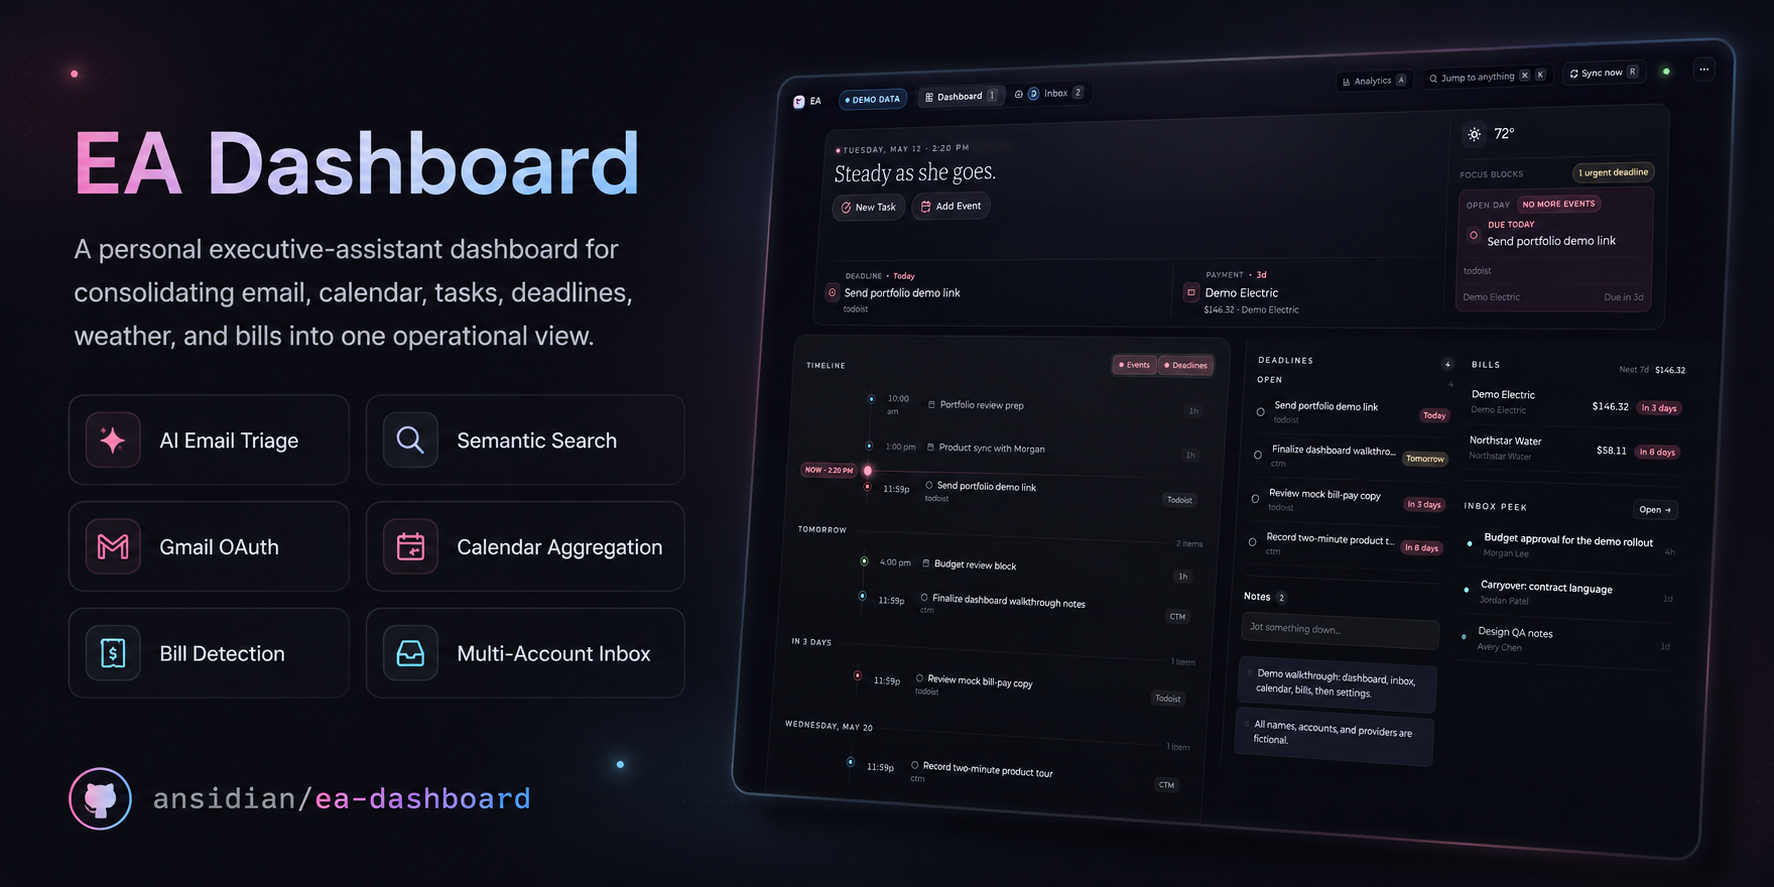
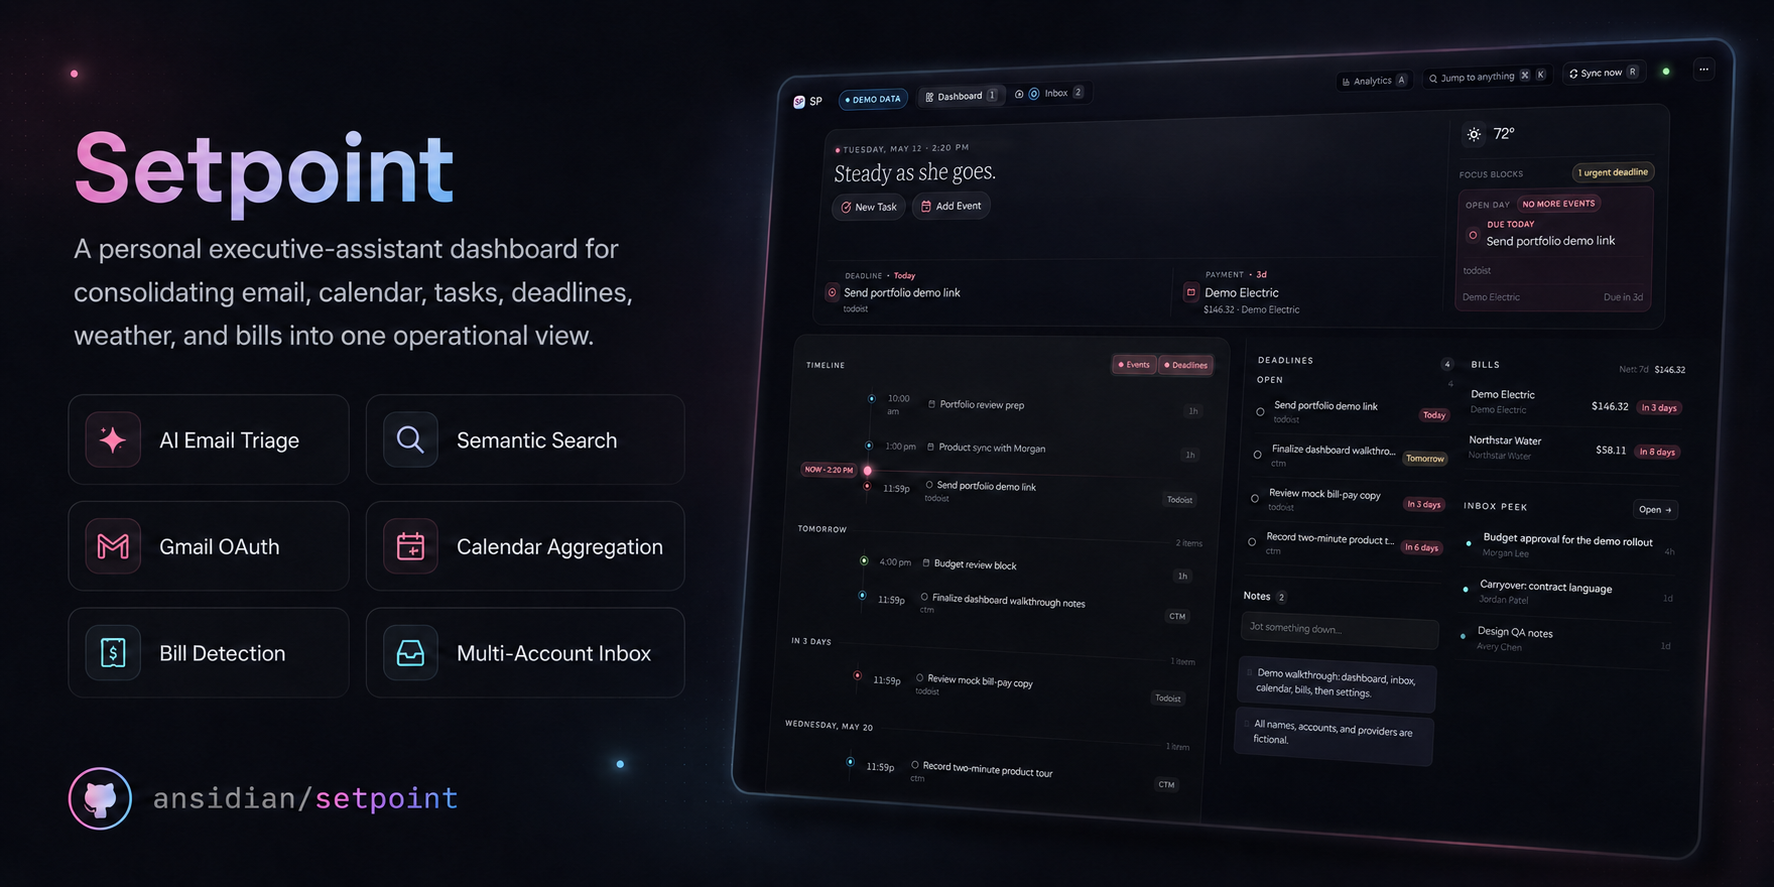
feat: rebrand project to Setpoint

diff --git a/server/auth/webauthn-config.test.js b/server/auth/webauthn-config.test.js
@@ -5,7 +5,7 @@ describe("WebAuthn config", () => {
   it("uses localhost defaults outside production", () => {
     expect(resolveWebAuthnConfig({ NODE_ENV: "development" })).toEqual({
       mode: "development",
-      rpName: "EA Dashboard",
+      rpName: "Setpoint",
       rpId: "localhost",
       origin: "http://localhost:5173",
     });
@@ -17,7 +17,7 @@ describe("WebAuthn config", () => {
       { requestOrigin: "http://127.0.0.1:5173" },
     )).toEqual({
       mode: "development",
-      rpName: "EA Dashboard",
+      rpName: "Setpoint",
       rpId: "127.0.0.1",
       origin: "http://127.0.0.1:5173",
     });
@@ -27,7 +27,7 @@ describe("WebAuthn config", () => {
       { requestOrigin: "http://localhost:3000" },
     )).toEqual({
       mode: "development",
-      rpName: "EA Dashboard",
+      rpName: "Setpoint",
       rpId: "localhost",
       origin: "http://localhost:3000",
     });
@@ -41,14 +41,14 @@ describe("WebAuthn config", () => {
   it("rejects unsafe production origin and RP ID values", () => {
     expect(() => resolveWebAuthnConfig({
       NODE_ENV: "production",
-      EA_WEBAUTHN_RP_NAME: "EA Dashboard",
+      EA_WEBAUTHN_RP_NAME: "Setpoint",
       EA_WEBAUTHN_RP_ID: "https://dashboard.example.com",
       EA_WEBAUTHN_ORIGIN: "https://dashboard.example.com",
     })).toThrow(/RP ID must be a hostname/);
 
     expect(() => resolveWebAuthnConfig({
       NODE_ENV: "production",
-      EA_WEBAUTHN_RP_NAME: "EA Dashboard",
+      EA_WEBAUTHN_RP_NAME: "Setpoint",
       EA_WEBAUTHN_RP_ID: "dashboard.example.com",
       EA_WEBAUTHN_ORIGIN: "http://dashboard.example.com",
     })).toThrow(/must use HTTPS/);
@@ -57,12 +57,12 @@ describe("WebAuthn config", () => {
   it("accepts explicit production WebAuthn config", () => {
     expect(resolveWebAuthnConfig({
       NODE_ENV: "production",
-      EA_WEBAUTHN_RP_NAME: "EA Dashboard",
+      EA_WEBAUTHN_RP_NAME: "Setpoint",
       EA_WEBAUTHN_RP_ID: "dashboard.example.com",
       EA_WEBAUTHN_ORIGIN: "https://dashboard.example.com",
     })).toEqual({
       mode: "production",
-      rpName: "EA Dashboard",
+      rpName: "Setpoint",
       rpId: "dashboard.example.com",
       origin: "https://dashboard.example.com",
     });

diff --git a/src/demo/demoMode.test.js b/src/demo/demoMode.test.js
@@ -51,7 +51,7 @@ describe("demo mode API network guard", () => {
 
     expect(fetch).toHaveBeenCalledWith("/api/auth/check", expect.objectContaining({
       headers: expect.objectContaining({
-        "X-Requested-With": "EADashboard",
+        "X-Requested-With": "Setpoint",
       }),
     }));
   });
@@ -72,7 +72,7 @@ describe("demo mode API network guard", () => {
 
     expect(fetch).toHaveBeenNthCalledWith(1, "/api/auth/passkey/authentication/options", expect.objectContaining({
       method: "POST",
-      headers: expect.objectContaining({ "X-Requested-With": "EADashboard" }),
+      headers: expect.objectContaining({ "X-Requested-With": "Setpoint" }),
     }));
     expect(fetch).toHaveBeenNthCalledWith(2, "/api/auth/passkey/authentication/verify", expect.objectContaining({
       method: "POST",
@@ -99,7 +99,7 @@ describe("demo mode API network guard", () => {
     await api.deletePasskeyCredential("credential-1");
 
     expect(fetch).toHaveBeenNthCalledWith(1, "/api/auth/passkeys", expect.objectContaining({
-      headers: expect.objectContaining({ "X-Requested-With": "EADashboard" }),
+      headers: expect.objectContaining({ "X-Requested-With": "Setpoint" }),
     }));
     expect(fetch).toHaveBeenNthCalledWith(2, "/api/auth/passkeys/registration/options", expect.objectContaining({
       method: "POST",

diff --git a/server/briefing/discord-reminders.js b/server/briefing/discord-reminders.js
@@ -44,7 +44,7 @@ function formatDateTime(value) {
 
 export function formatDiscordReminderPayload({ reminder, discordUserId = null }) {
   const snapshot = parseSnapshot(reminder);
-  const title = snapshot.title || snapshot.name || "EA Dashboard reminder";
+  const title = snapshot.title || snapshot.name || "Setpoint reminder";
   const context = snapshot.context || snapshot.sourceLabel || sourceLabel(reminder.source_type);
   const fields = [
     { name: "Source", value: context, inline: true },
@@ -61,7 +61,7 @@ export function formatDiscordReminderPayload({ reminder, discordUserId = null })
       description: snapshot.description || undefined,
       color: colorToInteger(snapshot.color),
       fields,
-      footer: { text: "EA Dashboard" },
+      footer: { text: "Setpoint" },
       timestamp: reminder.remind_at,
     }],
   };
@@ -126,7 +126,7 @@ export function formatGenericDiscordTestPayload({ discordUserId = null } = {}) {
   return {
     content: discordUserId ? `<@${discordUserId}>` : undefined,
     embeds: [{
-      title: "EA Dashboard reminder test",
+      title: "Setpoint reminder test",
       description: "Discord reminders are configured.",
       color: FALLBACK_COLOR,
       timestamp: new Date().toISOString(),

diff --git a/src/api.js b/src/api.js
@@ -11,7 +11,7 @@ async function apiFetch(path, options = {}) {
     ...fetchOptions,
     headers: {
       "Content-Type": "application/json",
-      "X-Requested-With": "EADashboard",
+      "X-Requested-With": "Setpoint",
       ...fetchOptions.headers,
     },
   });
@@ -40,7 +40,7 @@ export async function login(password) {
 
   const res = await fetch("/api/auth/login", {
     method: "POST",
-    headers: { "Content-Type": "application/json", "X-Requested-With": "EADashboard" },
+    headers: { "Content-Type": "application/json", "X-Requested-With": "Setpoint" },
     body: JSON.stringify({ password }),
   });
   if (!res.ok) {
@@ -174,7 +174,7 @@ export const trashEmailOnExit = (uid) => {
     keepalive: true,
     headers: {
       "Content-Type": "application/json",
-      "X-Requested-With": "EADashboard",
+      "X-Requested-With": "Setpoint",
     },
     body: "{}",
   }).catch(() => {});
@@ -194,7 +194,7 @@ export const settleArrivalGraceOnExit = () => {
     keepalive: true,
     headers: {
       "Content-Type": "application/json",
-      "X-Requested-With": "EADashboard",
+      "X-Requested-With": "Setpoint",
     },
     body: "{}",
   }).catch(() => {});

diff --git a/src/demo/store.js b/src/demo/store.js
@@ -220,7 +220,7 @@ function makeMonthEvent(today, dayNumber, config) {
 
 function makeCalendarEvents(today, tomorrow) {
   return [
-    event({ id: "demo-event-review", title: "Portfolio review prep", day: today, startHour: 10, endHour: 11, location: "Focus room", description: "Walk through recruiter-facing EA Dashboard demo path and tighten screenshots." }),
+    event({ id: "demo-event-review", title: "Portfolio review prep", day: today, startHour: 10, endHour: 11, location: "Focus room", description: "Walk through recruiter-facing Setpoint demo path and tighten screenshots." }),
     event({ id: "demo-event-sync", title: "Product sync with Morgan", day: today, startHour: 13, endHour: 14, location: "Product Zoom", description: "Review inbox automation tradeoffs, demo scope, and product risk." }),
     event({ id: "demo-event-bills", title: "Budget review block", day: tomorrow, startHour: 16, endHour: 17, sourceColor: BILLS_COLOR, location: "Desk", description: "Reconcile recurring bills and verify bill-pay copy." }),
     ...makeWorkdayStandups(today),

diff --git a/server/routes/auth-boundaries.test.js b/server/routes/auth-boundaries.test.js
@@ -98,7 +98,7 @@ vi.mock("../briefing/encryption.js", () => ({
   decrypt: vi.fn((value) => value),
 }));
 vi.mock("../briefing/discord-reminders.js", () => ({
-  formatGenericDiscordTestPayload: vi.fn(() => ({ embeds: [{ title: "EA Dashboard reminder test" }] })),
+  formatGenericDiscordTestPayload: vi.fn(() => ({ embeds: [{ title: "Setpoint reminder test" }] })),
   sendDiscordWebhook: vi.fn(async () => ({ ok: true, status: 204 })),
 }));
 vi.mock("../briefing/bill-extractors/catalog.js", () => ({
@@ -745,7 +745,7 @@ describe("auth boundaries", () => {
     });
     expect(discordReminders.sendDiscordWebhook).toHaveBeenCalledWith(
       "enc:https://discord.example/webhook",
-      { embeds: [{ title: "EA Dashboard reminder test" }] },
+      { embeds: [{ title: "Setpoint reminder test" }] },
     );
   });
 

diff --git a/server/index.js b/server/index.js
@@ -69,7 +69,7 @@ app.use("/api", (req, res, next) => {
   if (req.path === "/gmail/push") return next();
   if (req.path === "/auth/login") return next();
   if (req.headers.authorization?.startsWith("Bearer ")) return next();
-  if (req.headers["x-requested-with"] !== "EADashboard") {
+  if (req.headers["x-requested-with"] !== "Setpoint") {
     return res.status(403).json({ message: "Forbidden" });
   }
   next();
@@ -112,7 +112,7 @@ timeAsync("migrations", () => migrate())
   .then(() => timeAsync("encryption-rewrite", () => migrateCbcEncryption()))
   .then(() => {
     app.listen(PORT, () => {
-      console.log(`EA Dashboard running on http://localhost:${PORT}`);
+      console.log(`Setpoint running on http://localhost:${PORT}`);
       logTiming({
         event: "boot",
         phase: "listen",

diff --git a/src/pages/Login.jsx b/src/pages/Login.jsx
@@ -112,8 +112,8 @@ export default function Login({ onLogin }) {
           <Card className="bg-card/85 backdrop-blur-[2px]">
             <CardHeader className="items-center gap-3 border-b border-white/[0.04] pb-5 text-center">
               <img
-                src={publicAssetUrl("ea-dashboard-header-logo-v3.svg")}
-                alt="EA Dashboard"
+                src={publicAssetUrl("setpoint.svg")}
+                alt="Setpoint"
                 style={{ height: 32, filter: "drop-shadow(0 2px 8px rgba(203,166,218,0.18))" }}
               />
               <div className="text-[11px] font-semibold tracking-[2.5px] uppercase text-muted-foreground">

diff --git a/src/components/layout/ChunkLoadBoundary.jsx b/src/components/layout/ChunkLoadBoundary.jsx
@@ -19,7 +19,7 @@ function ChunkLoadFallback({ onAutoReload, onReload }) {
     >
       <div className="w-full max-w-[420px] rounded-lg border border-border bg-card/80 px-6 py-7 text-center">
         <p className="mb-2 text-[11px] font-semibold text-warning">Build changed</p>
-        <h1 className="mb-3 text-[20px] font-semibold text-foreground">Reload EA Dashboard</h1>
+        <h1 className="mb-3 text-[20px] font-semibold text-foreground">Reload Setpoint</h1>
         <p className="mb-5 text-[13px] leading-relaxed text-muted-foreground">
           This tab is holding an old app bundle. Reload to fetch the current dashboard.
         </p>

diff --git a/src/components/shell/ShellBrand.jsx b/src/components/shell/ShellBrand.jsx
@@ -3,14 +3,14 @@ import { publicAssetUrl } from "@/publicAsset";
 export function ShellBrand({ isMobile }) {
   return isMobile ? (
     <img
-      src={publicAssetUrl("ea-dashboard-mark-v3.svg")}
-      alt="EA Dashboard"
+      src={publicAssetUrl("setpoint-256.png")}
+      alt="Setpoint"
       style={{ height: 20, width: 20, flexShrink: 0 }}
     />
   ) : (
     <img
-      src={publicAssetUrl("ea-dashboard-header-logo-compact-v3.svg")}
-      alt="EA Dashboard"
+      src={publicAssetUrl("setpoint.svg")}
+      alt="Setpoint"
       style={{ height: 24, flexShrink: 0 }}
     />
   );

diff --git a/e2e/auth.setup.js b/e2e/auth.setup.js
@@ -19,7 +19,7 @@ setup("authenticate local e2e session", async ({ request }) => {
       baseURL,
       storageState: authFile,
       extraHTTPHeaders: {
-        "X-Requested-With": "EADashboard",
+        "X-Requested-With": "Setpoint",
       },
     });
     const check = await existing.get("/api/auth/check");
@@ -36,7 +36,7 @@ setup("authenticate local e2e session", async ({ request }) => {
     data: { password },
     headers: {
       "Content-Type": "application/json",
-      "X-Requested-With": "EADashboard",
+      "X-Requested-With": "Setpoint",
     },
   });
 

diff --git a/src/publicAsset.test.js b/src/publicAsset.test.js
@@ -3,7 +3,7 @@ import { publicAssetUrl } from "./publicAsset.js";
 
 describe("publicAssetUrl", () => {
   it("prefixes public assets with the deployment base path", () => {
-    expect(publicAssetUrl("ea-dashboard-mark-v3.svg", "/")).toBe("/ea-dashboard-mark-v3.svg");
-    expect(publicAssetUrl("/ea-dashboard-mark-v3.svg", "/ea-dashboard/")).toBe("/ea-dashboard/ea-dashboard-mark-v3.svg");
+    expect(publicAssetUrl("setpoint.svg", "/")).toBe("/setpoint.svg");
+    expect(publicAssetUrl("/setpoint.svg", "/Setpoint/")).toBe("/Setpoint/setpoint.svg");
   });
 });
